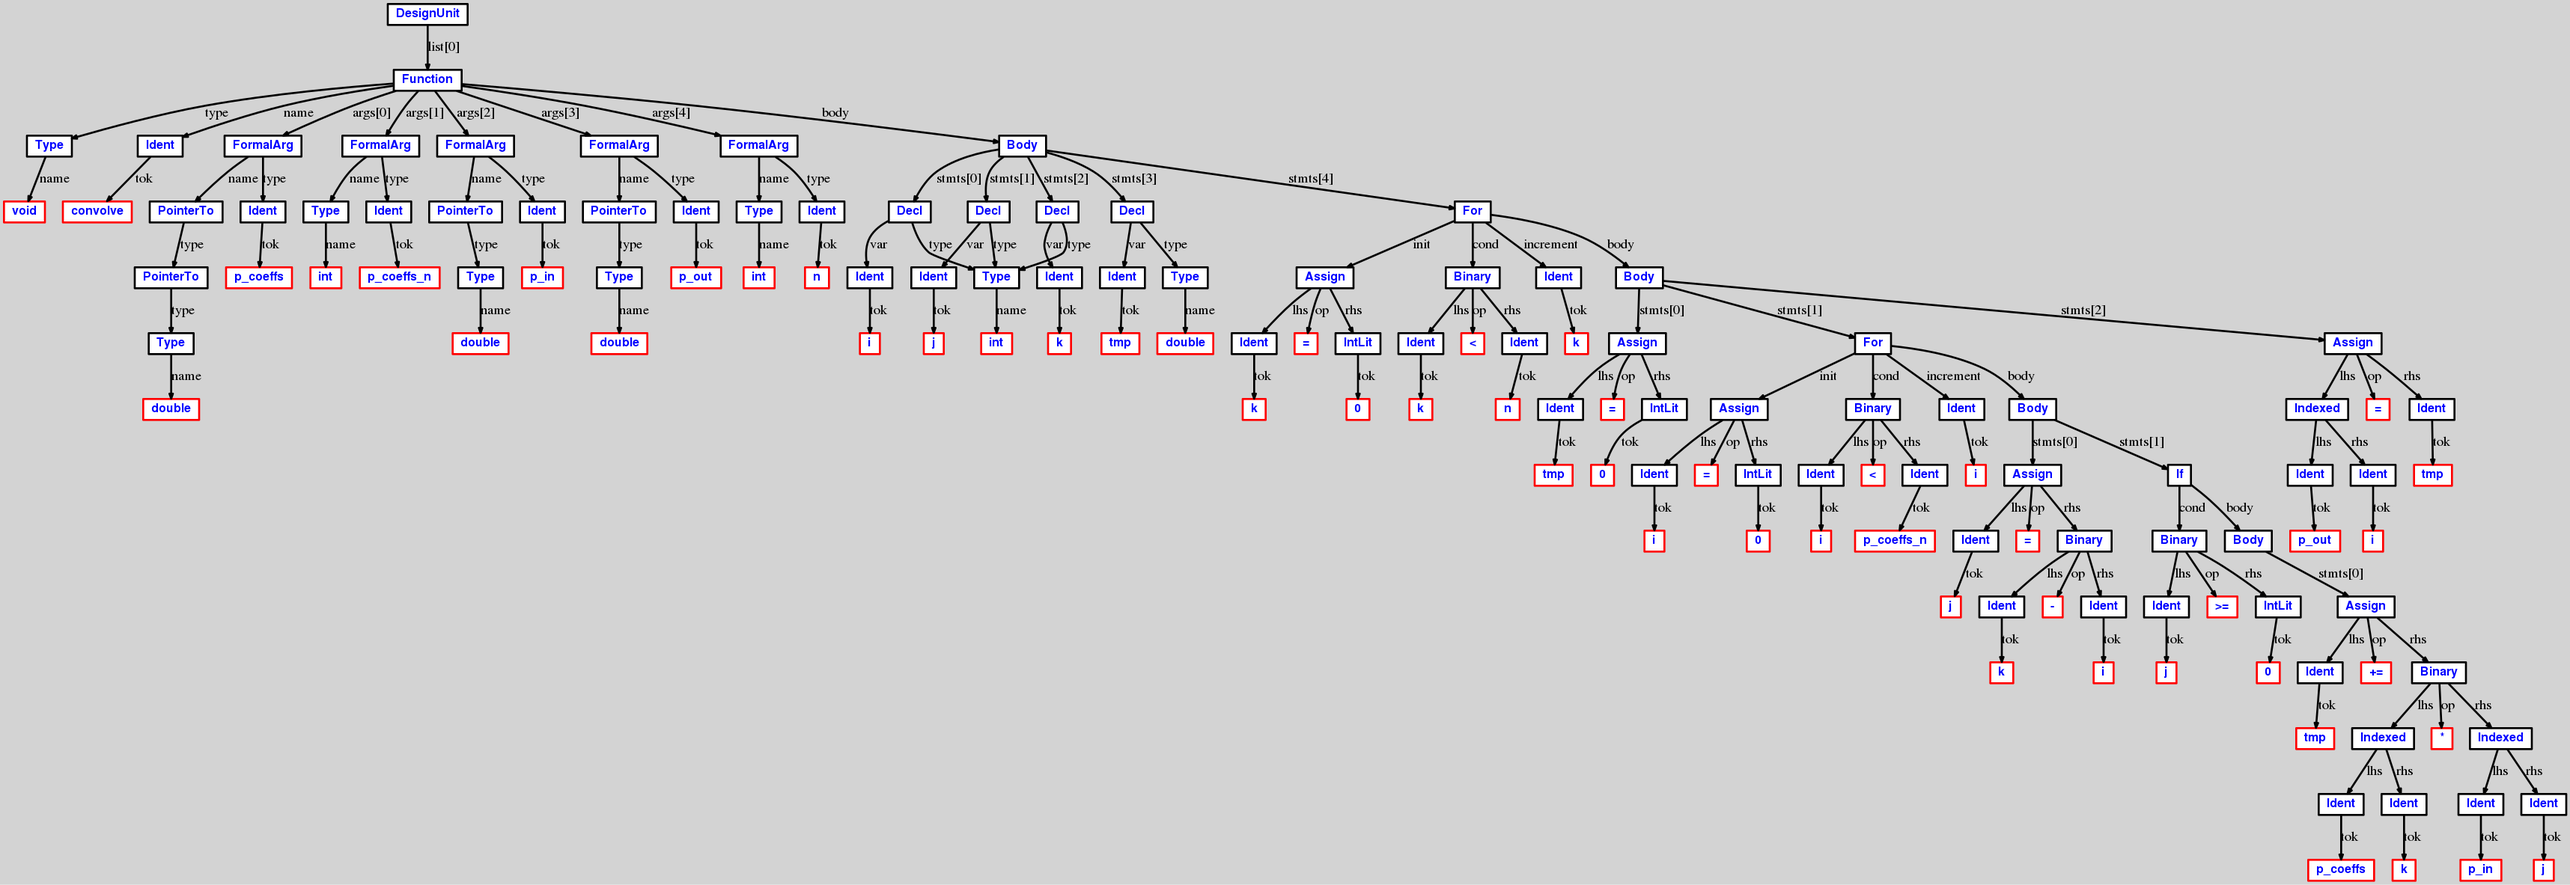
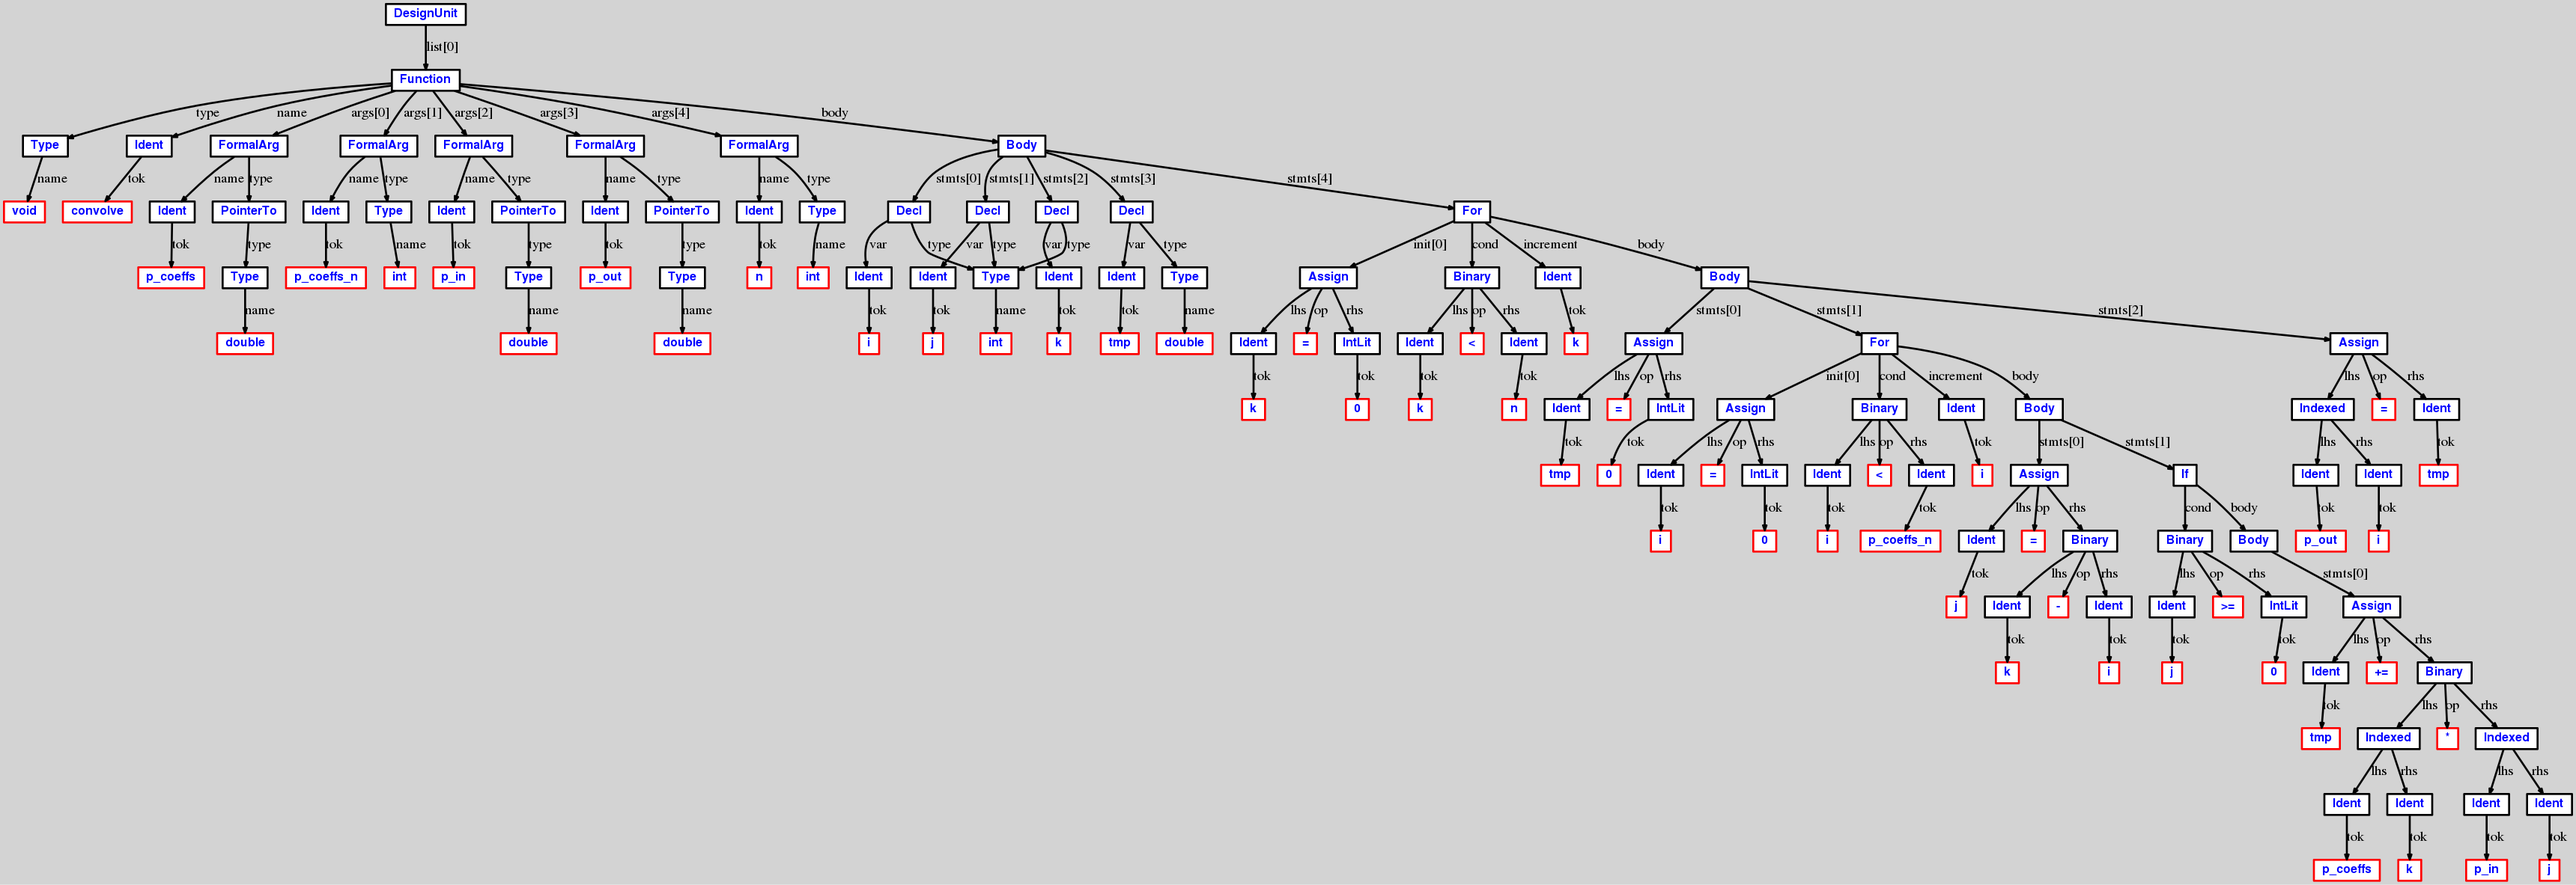
parsing & pp enhancements

diff --git a/lib/crokus/ast.rb b/lib/crokus/ast.rb
@@ -24,6 +24,10 @@ module Crokus
     def initialize tok
       @tok=tok
     end
+
+    def to_s
+      @tok.val
+    end
   end
 
   class Include < Ast
@@ -47,6 +51,7 @@ module Crokus
   class Type < Ast
     attr_accessor :name,:specifiers
     def initialize name
+      @specifiers=[]
       @name=name
     end
   end
@@ -143,7 +148,7 @@ module Crokus
 
   class FormalArg < Ast
     attr_accessor :name,:type
-    def initialize n,t
+    def initialize t,n
       @name,@type=n,t
     end
   end
@@ -203,6 +208,9 @@ module Crokus
 
   class For < Stmt
     attr_accessor :init,:cond,:increment,:body
+    def initialize
+      @init=[]
+    end
   end
 
   class While < Stmt
@@ -299,9 +307,10 @@ module Crokus
   end
 
   class Unary < Expr
-    attr_accessor :op,:rhs
-    def initialize op,rhs
+    attr_accessor :op,:rhs,:postfix
+    def initialize op,rhs,postfix=nil
       @op,@rhs=op,rhs
+      @postfix=postfix
     end
   end
 
@@ -358,6 +367,10 @@ module Crokus
   class Literal < Ast
     def initialize tok
       @tok=tok
+    end
+
+    def to_s
+      @tok.val
     end
   end
 

diff --git a/lib/crokus/pretty_printer.rb b/lib/crokus/pretty_printer.rb
@@ -305,6 +305,14 @@ module Crokus
     end
 
     #..........expresions..........
+    def visitIdent ident,args=nil
+      return ident.to_s
+    end
+
+    def visitIntLit lit,args=nil
+      return lit.to_s
+    end
+
     def visitBinary expr,args=nil
       lhs=expr.lhs.accept(self)
       op =expr.op.accept(self)
@@ -315,7 +323,7 @@ module Crokus
     def visitUnary unary,args=nil
       op=unary.op.accept(self)
       e =unary.rhs.accept(self)
-      return "#{op}#{e}"
+      return unary.postfix ? "#{e}#{op}" : "#{op}#{e}"
     end
 
     def visitParenth par,args=nil
@@ -329,7 +337,7 @@ module Crokus
       return "#{lhs}->#{rhs}"
     end
 
-    def visitIndex index,args=nil
+    def visitIndexed index,args=nil
       lhs=index.lhs.accept(self)
       rhs=index.rhs.accept(self)
       return "#{lhs}[#{rhs}]"

diff --git a/lib/crokus/parser.rb b/lib/crokus/parser.rb
@@ -551,8 +551,8 @@ module Crokus
       forloop=For.new
       expect :for
       expect :lparen
-      forloop.init=expression_statement()
-      forloop.cond=expression_statement()
+      forloop.init << expression_statement()
+      forloop.cond = expression_statement()
       forloop.increment=expression()
       expect :rparen
       forloop.body=statement()
@@ -974,12 +974,11 @@ module Crokus
           e2=Ident.new(expect :ident)
           e1=Dotted.new(e1,e2)
         when :ptr_op
-          acceptIt
+          op=acceptIt
           expect :ident
-        when :inc_op
-          acceptIt
-        when :dec_op
-          acceptIt
+        when :inc_op,:dec_op
+          op=acceptIt
+          e1=Unary.new(op,e1,true)
         end
       end
       dedent

diff --git a/lib/crokus/compiler.rb b/lib/crokus/compiler.rb
@@ -33,7 +33,7 @@ module Crokus
       parse(filename)
       gen_dot
       #visit
-      # pretty_print
+      pretty_print
       return true
     end
 

diff --git a/README.md b/README.md
@@ -1,5 +1,5 @@
 # crokus
-C parser written in Ruby, for experiments purpose.
+C parser written in Ruby, for experimental purpose.
 Crokus parses a fair subset of C, using outrageous tricks.
 Crokus generates an AST (abstract syntax tree), that can be visualized using Graphviz.
 
